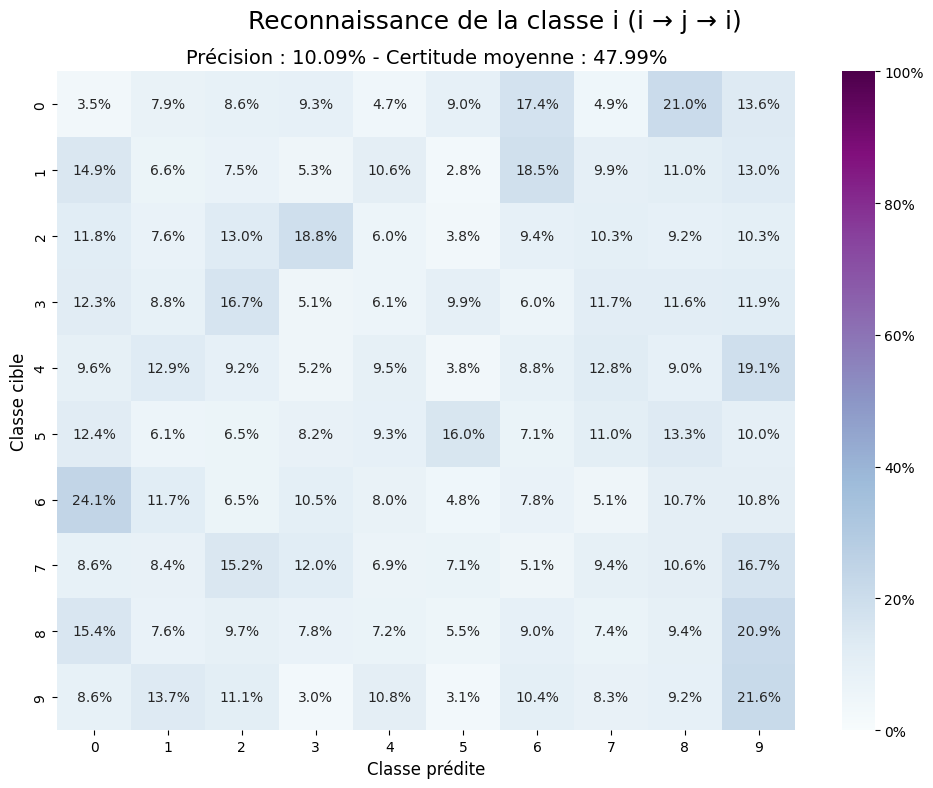
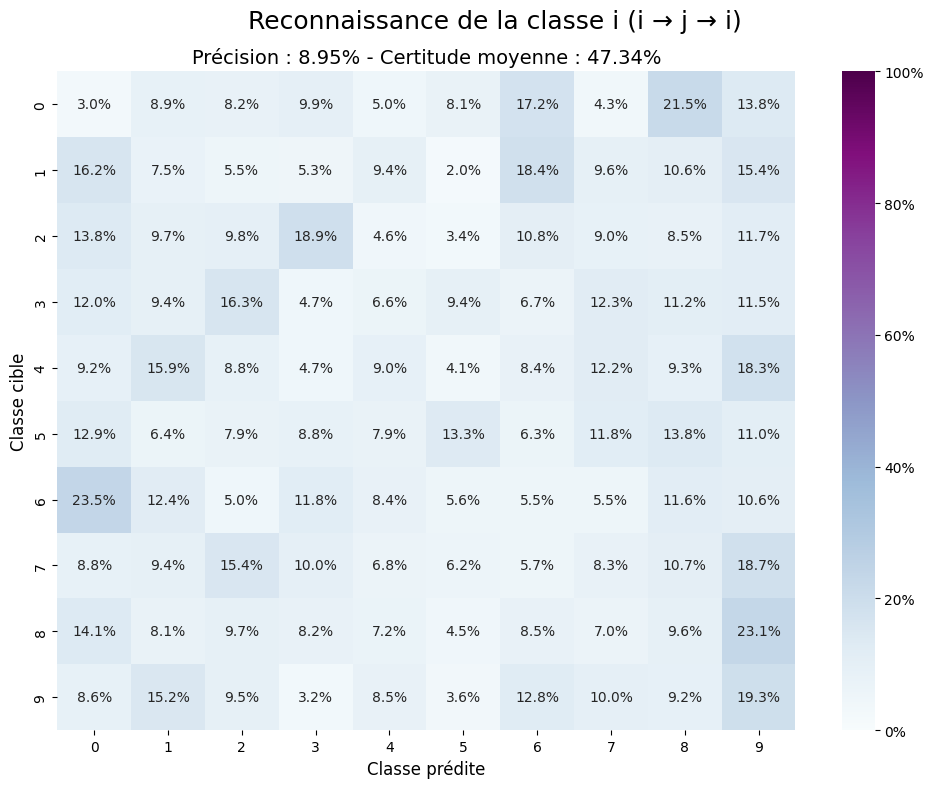
Generated results

diff --git a/Sources/code/analytics/trace_confusion.py b/Sources/code/analytics/trace_confusion.py
@@ -74,17 +74,17 @@ else:
 
         z_dst = latent.translate(z_src + alpha, y_src, y_dst, z_class_distributions, use_std=transform_method == 1)
     else:
-        z_train_r = latent.encode(
+        z_train = latent.encode(
             autoencoder,
-            x=x_train_r,
-            y=y_train_r,
+            x=x_train,
+            y=y_train,
             n_times=2,
             save_cache=True
         )
         
         alpha = np.random.normal(np.zeros_like(z_src), 0.5)
 
-        z_dst = latent.transform_mg(z_src, y_src, y_dst, z_train_r, y_train_r, alpha=alpha)
+        z_dst = latent.transform_mg(z_src, y_src, y_dst, z_train, y_train, alpha=None)
 
 x_dst = autoencoder.decoder.predict(z_dst)
 _, _, z_invdst = autoencoder.encoder.predict(x_dst)
@@ -95,7 +95,7 @@ else:
     if transform_method == 0 or transform_method == 1:
         z_invsrc = latent.translate(z_invdst - alpha, y_dst, y_src, z_class_distributions, use_std=transform_method == 1)
     else:
-        z_invsrc = latent.transform_mg(z_invdst, y_dst, y_src, z_train_r, y_train_r, alpha=-alpha)
+        z_invsrc = latent.transform_mg(z_invdst, y_dst, y_src, z_train, y_train, alpha=-alpha)
 
 x_invsrc = autoencoder.decoder.predict(z_invsrc)
 
@@ -117,7 +117,7 @@ plots.compute_confusion_matrix(
 )
 
 if transform_method == 2:
-    guessed, _, certainties = latent.classify_mg(z_src, z_train_r, y_train_r)
+    guessed, _, certainties = latent.classify_mg(z_src, z_train, y_train)
     cm = confusion_matrix(y_src, guessed, labels=np.arange(10))
     plots.compute_confusion_matrix(
         cm,
@@ -152,7 +152,7 @@ plots.compute_confusion_matrix(
 )
 
 if transform_method == 2:
-    guessed, _, certainties = latent.classify_mg(z_dst, z_train_r, y_train_r)
+    guessed, _, certainties = latent.classify_mg(z_dst, z_train, y_train)
     cm = confusion_matrix(y_dst, guessed, labels=np.arange(10))
     plots.compute_confusion_matrix(
         cm,
@@ -220,7 +220,7 @@ plots.compute_confusion_matrix(
 )
 
 if transform_method == 2:
-    guessed, _, certainties = latent.classify_mg(z_invsrc, z_train_r, y_train_r)
+    guessed, _, certainties = latent.classify_mg(z_invsrc, z_train, y_train)
     cm = confusion_matrix(y_src, guessed, labels=np.arange(10))
     plots.compute_confusion_matrix(
         cm,
